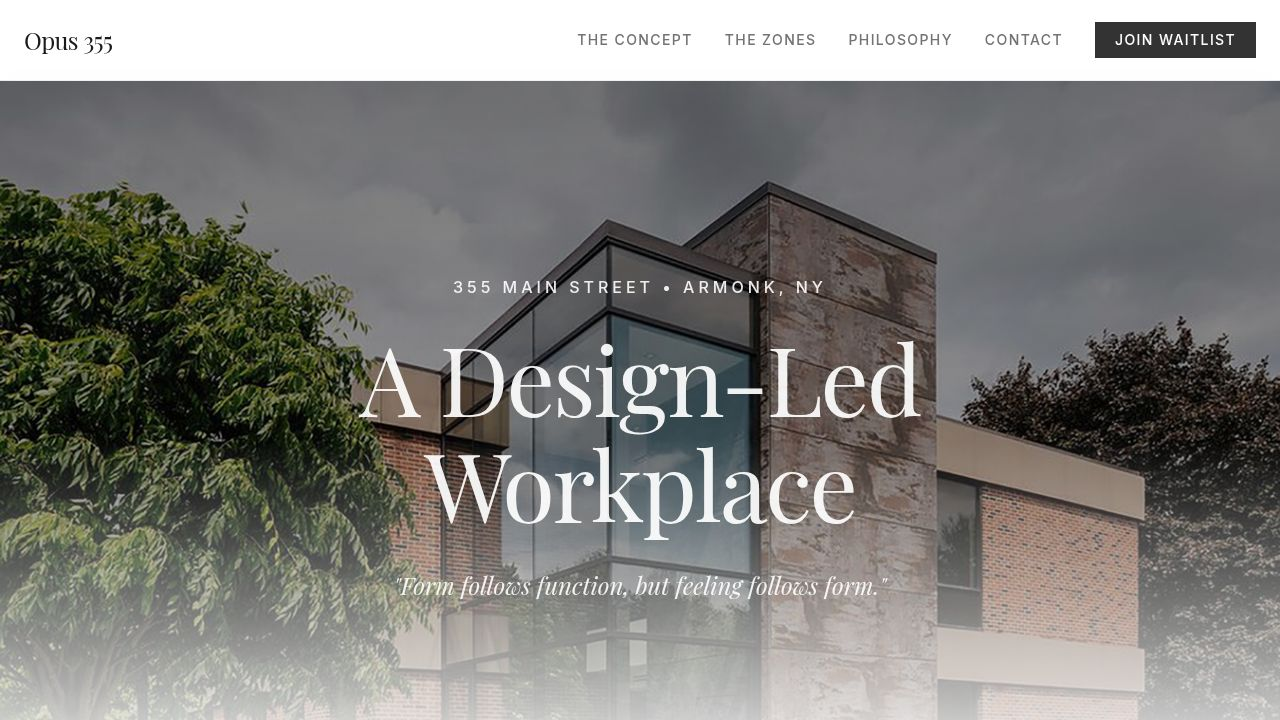
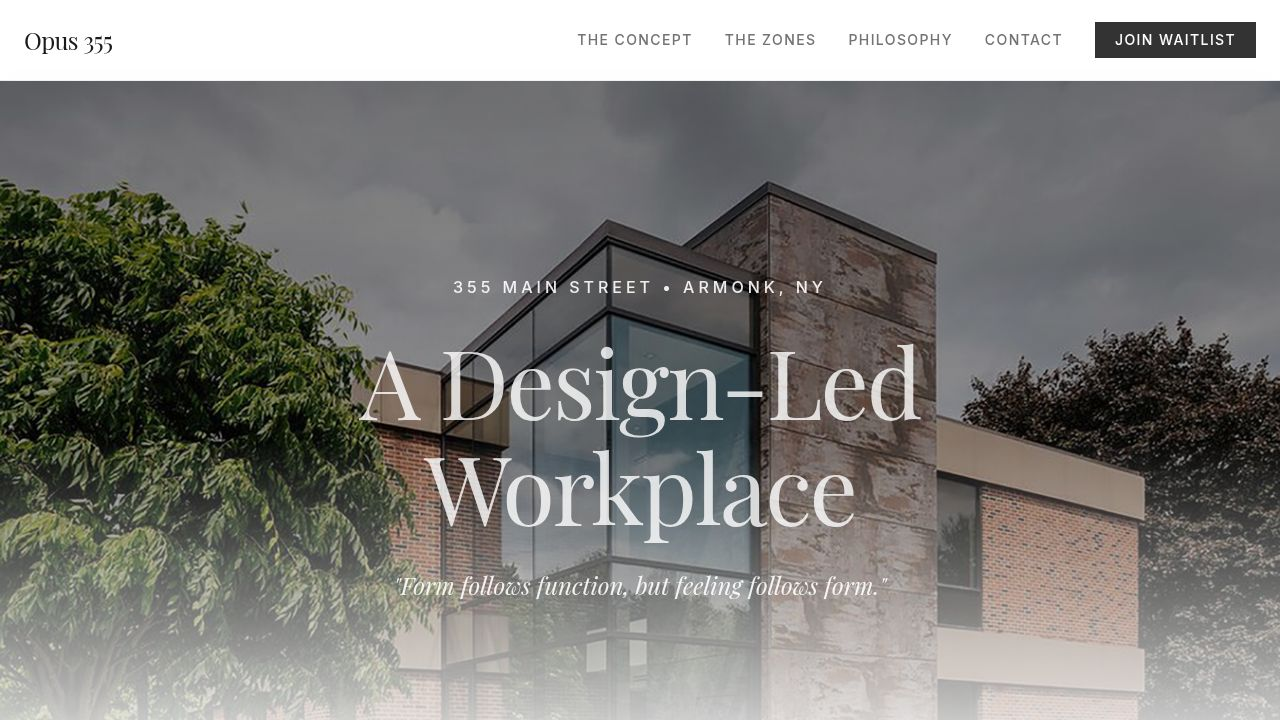
Update product details and images for various office zones
Imports new image assets and modifies the `zones` array in `home.tsx` to reflect the user's requested product reordering and image updates for Production Suite, Private Office, and Team Offices zones.

Replit-Commit-Author: Agent
Replit-Commit-Session-Id: 42a5cbb6-02d6-4384-8777-759d8d97d419
Replit-Commit-Checkpoint-Type: full_checkpoint
Replit-Commit-Event-Id: 57c9d804-98aa-46da-86fe-e887319e43d8
Replit-Commit-Screenshot-Url: https://storage.googleapis.com/screenshot-production-us-central1/9f72cabb-9bf3-4c30-9f3f-5f475a08b80e/42a5cbb6-02d6-4384-8777-759d8d97d419/gNOuvl2
Replit-Helium-Checkpoint-Created: true

diff --git a/client/src/pages/home.tsx b/client/src/pages/home.tsx
@@ -64,6 +64,8 @@ import ffe04 from "@assets/stock_images/vitra_.04_chair_offi_b4b13e10.jpg";
 import ffeSoftWorkSeating from "@assets/stock_images/vitra_soft_work_seat_c7c7c364.jpg";
 import ffe05 from "@assets/stock_images/vitra_.05_chair_maar_01327ebe.jpg";
 import ffeFollowMe from "@assets/stock_images/vitra_follow_me_mobi_fade2168.jpg";
+import ffeMyntSketch from "@assets/mynt_1767101044307.jpg";
+import ffeMikado from "@assets/mikado_1767101044307.jpg";
 
 const zones = [
   {
@@ -74,12 +76,12 @@ const zones = [
     images: [zone1],
     products: [
       {
-        name: "Mynt",
+        name: "Joyn 2",
         brand: "Vitra",
-        image: ffeMynt,
-        url: "https://www.vitra.com/en-us/product/mynt",
-        pdf: "/documents/mynt.pdf",
-        desc: "An ergonomic office chair for dynamic sitting."
+        image: ffeJoyn2,
+        url: "https://www.vitra.com/en-us/product/joyn-2",
+        pdf: "/documents/joyn2.pdf",
+        desc: "Adaptable office table system for teamwork and collaboration."
       },
       {
         name: ".04 Chair",
@@ -90,12 +92,12 @@ const zones = [
         desc: "Unobtrusive design with ergonomic comfort for long periods of sitting."
       },
       {
-        name: "Tyde 2",
+        name: "Dancing Wall",
         brand: "Vitra",
-        image: ffeTyde2,
-        url: "https://www.vitra.com/en-us/product/tyde-2",
-        pdf: "/documents/tyde2.pdf",
-        desc: "Height-adjustable sit-stand table system."
+        image: ffeDancingWall,
+        url: "https://www.vitra.com/en-us/product/dancing-wall",
+        pdf: "/documents/dancing_wall.pdf",
+        desc: "Mobile partition that can be used to divide offices into zones."
       }
     ]
   },
@@ -132,20 +134,28 @@ const zones = [
     images: [zone5a, zone5b],
     products: [
       {
-        name: "Fauteuil Direction",
+        name: "Tyde 2",
         brand: "Vitra",
-        image: ffeFauteuilDirection,
-        url: "https://www.vitra.com/en-us/product/fauteuil-direction",
-        pdf: "/documents/fauteuil_direction.pdf",
-        desc: "Comfortable armchair especially suited for table seating."
+        image: ffeTyde2,
+        url: "https://www.vitra.com/en-us/product/tyde-2",
+        pdf: "/documents/tyde2.pdf",
+        desc: "Height-adjustable sit-stand table system."
       },
-       {
-        name: "Stool 60",
-        brand: "Artek",
-        image: ffeStool60,
-        url: "https://www.artek.fi/en/products/stool-60",
-        pdf: "#",
-        desc: "The iconic three-legged stool designed by Alvar Aalto."
+      {
+        name: "Mynt",
+        brand: "Vitra",
+        image: ffeMyntSketch,
+        url: "https://www.vitra.com/en-us/product/mynt",
+        pdf: "/documents/mynt.pdf",
+        desc: "An ergonomic office chair for dynamic sitting."
+      },
+      {
+        name: "Mikado Side Chair",
+        brand: "Vitra",
+        image: ffeMikado,
+        url: "https://www.vitra.com/en-us/product/mikado",
+        pdf: "/documents/mikado.pdf",
+        desc: "Elegant side chair with a flexible backrest for comfort."
       }
     ]
   },
@@ -156,21 +166,29 @@ const zones = [
     x: 31, y: 54.5,
     images: [zone6],
     products: [
-       {
-        name: "Joyn 2",
+      {
+        name: "Tyde 2",
         brand: "Vitra",
-        image: ffeJoyn2,
-        url: "https://www.vitra.com/en-us/product/joyn-2",
-        pdf: "/documents/joyn2.pdf",
-        desc: "Adaptable office table system for teamwork."
+        image: ffeTyde2,
+        url: "https://www.vitra.com/en-us/product/tyde-2",
+        pdf: "/documents/tyde2.pdf",
+        desc: "Height-adjustable sit-stand table system."
       },
       {
-        name: "Follow Me",
+        name: "Mynt",
         brand: "Vitra",
-        image: ffeFollowMe,
-        url: "https://www.vitra.com/en-us/product/follow-me",
-        pdf: "/documents/follow_me.pdf",
-        desc: "Robust, lockable mobile pedestal with a decorative pull strap."
+        image: ffeMyntSketch,
+        url: "https://www.vitra.com/en-us/product/mynt",
+        pdf: "/documents/mynt.pdf",
+        desc: "An ergonomic office chair for dynamic sitting."
+      },
+      {
+        name: "Mikado Side Chair",
+        brand: "Vitra",
+        image: ffeMikado,
+        url: "https://www.vitra.com/en-us/product/mikado",
+        pdf: "/documents/mikado.pdf",
+        desc: "Elegant side chair with a flexible backrest for comfort."
       }
     ]
   },